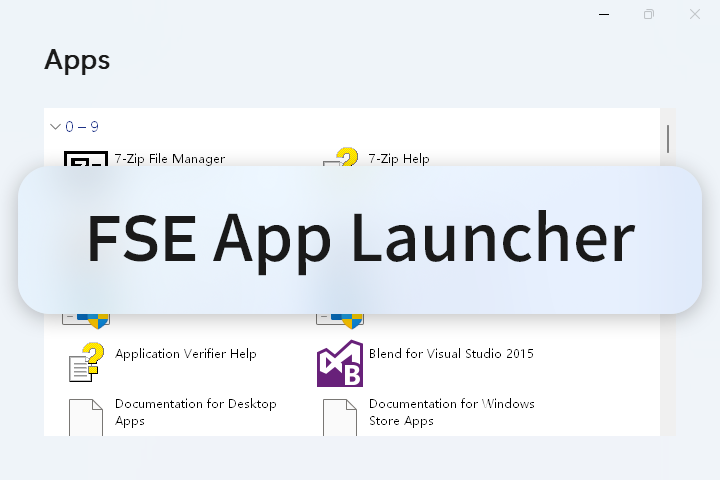
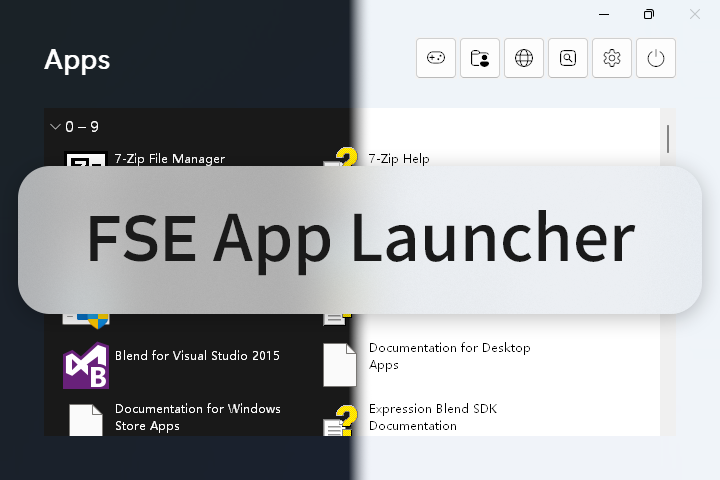
Officially release 26.30.1440.0 (Current).

diff --git a/README.md b/README.md
@@ -13,15 +13,17 @@
 
 ## Highlights
 
-- Supports **setting it as home app** on devices compatible with the **FSE**[^1] feature (see "System Requirements").
+- Supports **setting it as home app** on devices compatible with the **FSE[^1]** feature (see "System Requirements").
 - Supports launching **any** app (including non-game apps) **under FSE[^1]**, eliminating the need to switch back and forth between FSE[^1] and desktop.
-- Provides the **native right-click menu** based on Windows Shell, with suppport for "Run as administrator", "Open new window", "Open file location", "Uninstall", etc. It can be used as a substitute to the all apps list of Start Menu.
+- Provides the **native right-click menu**, with suppport for "Run as administrator", "Open new window", "Open file location", "Uninstall", etc. It can be used as a substitute to the all apps list of Start Menu.
+- **[New]** Provides a set of buttons for quick access to **commonly used features[^2]**.
+- **[New]** Provides native support for touch screen, high DPI, and dark mode.
 
 ## System Requirements
 
 #### Minimum requirements
 
-- Windows 11, version 24H2+
+- Windows 11, version 22H2+
 
 #### Other requirements (if you intend to set the application as home app of full screen experience)
 
@@ -95,7 +97,7 @@
 
 - After installing the certificate and dependency, you can install the application by double clicking "FSEAppLauncher...x64.msix" and then click "Install".
 
-#### 5. Configure the application as the home app[^2]
+#### 5. Configure the application as the home app[^3]
 
 - Open System Settings, click "Gaming", then click "Full screen experience".
 - Beside "Choose home app", select "App Launcher for Windows", and enable "Enter full screen experience on startup".
@@ -108,17 +110,14 @@
 
 ## What's new
 
-#### General Availability - Version 26.23.31455.0
-
-- Fixed the bug that the client area is black on elastic overscroll.
-
-#### Beta - Version 26.30.1440.0 (March 2026)
+#### Current - Version 26.30.1440.0 (March 2026)
 
 - Added a set of buttons for quick access to commonly used features.
 - Now the App Launcher UI no longer covers the taskbar.
 - Updated to Per-Monitor v2 DPI awareness mode to adapt to dynamic DPI changes.
 - Adapted to dynamic light / dark mode changes.
-- Added support for Windows 11, version 22H2/23H2.
+- Added backward compatibility for Windows 11, version 22H2 and 23H2.
+
 
 ## Developing and debugging
 
@@ -150,4 +149,5 @@ This means unlicensed works, modifications, and larger works may be distributed 
 
 
 [^1]:Also known as "Xbox Handheld Mode".
-[^2]:If your operating system version is lower than Windows 11, version 25H2, or your device is not a gaming handheld, you may not see "Full screen experience", and some options may not appear.
+[^2]:The "Xbox" feature requires the latest version of [Xbox app](https://apps.microsoft.com/detail/9MV0B5HZVK9Z). The "Command Palette" feature requires the latest version of [PowerToys](https://github.com/microsoft/PowerToys/releases/latest).
+[^3]:If your operating system version is lower than Windows 11, version 25H2, or your device is not a gaming handheld, you may not see "Full screen experience", and some options may not appear.
